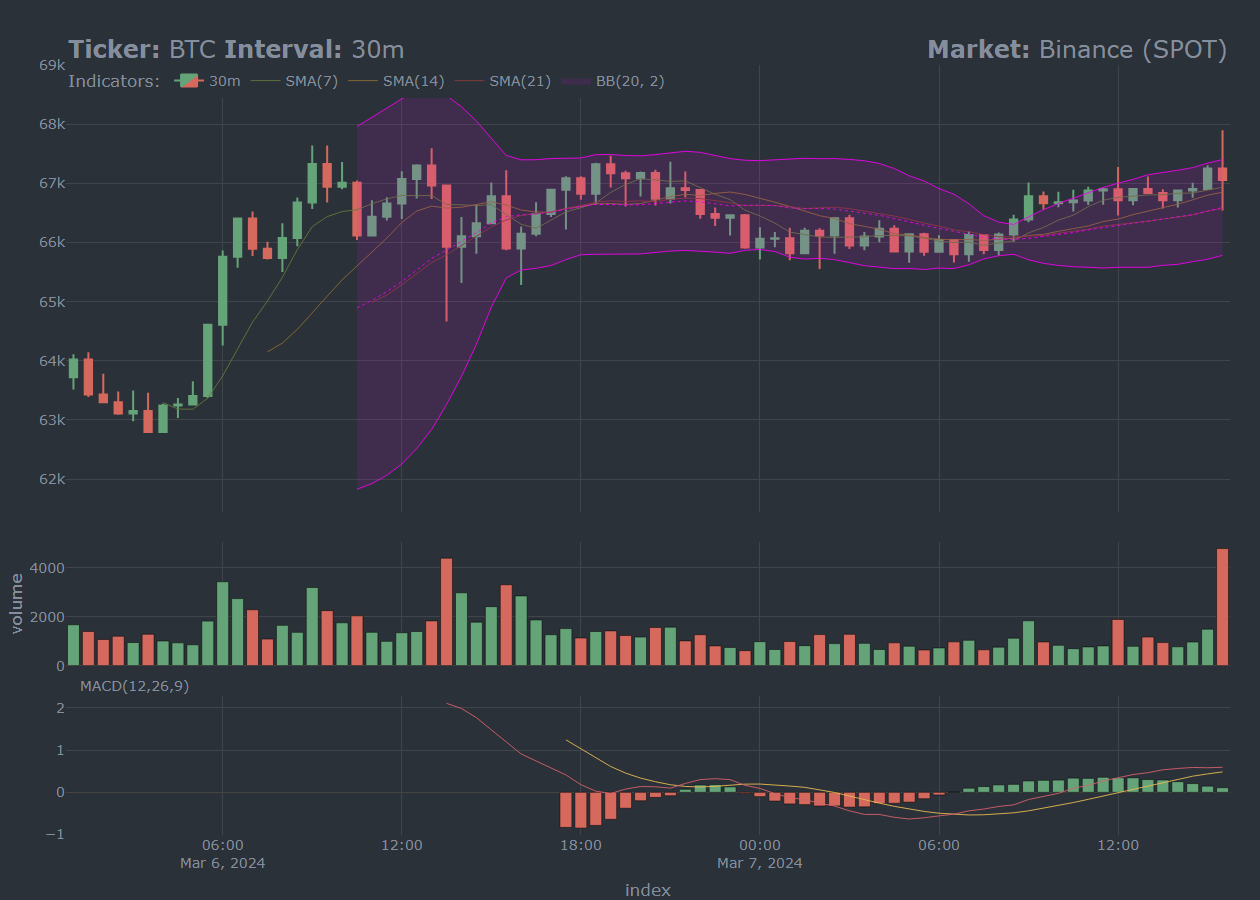
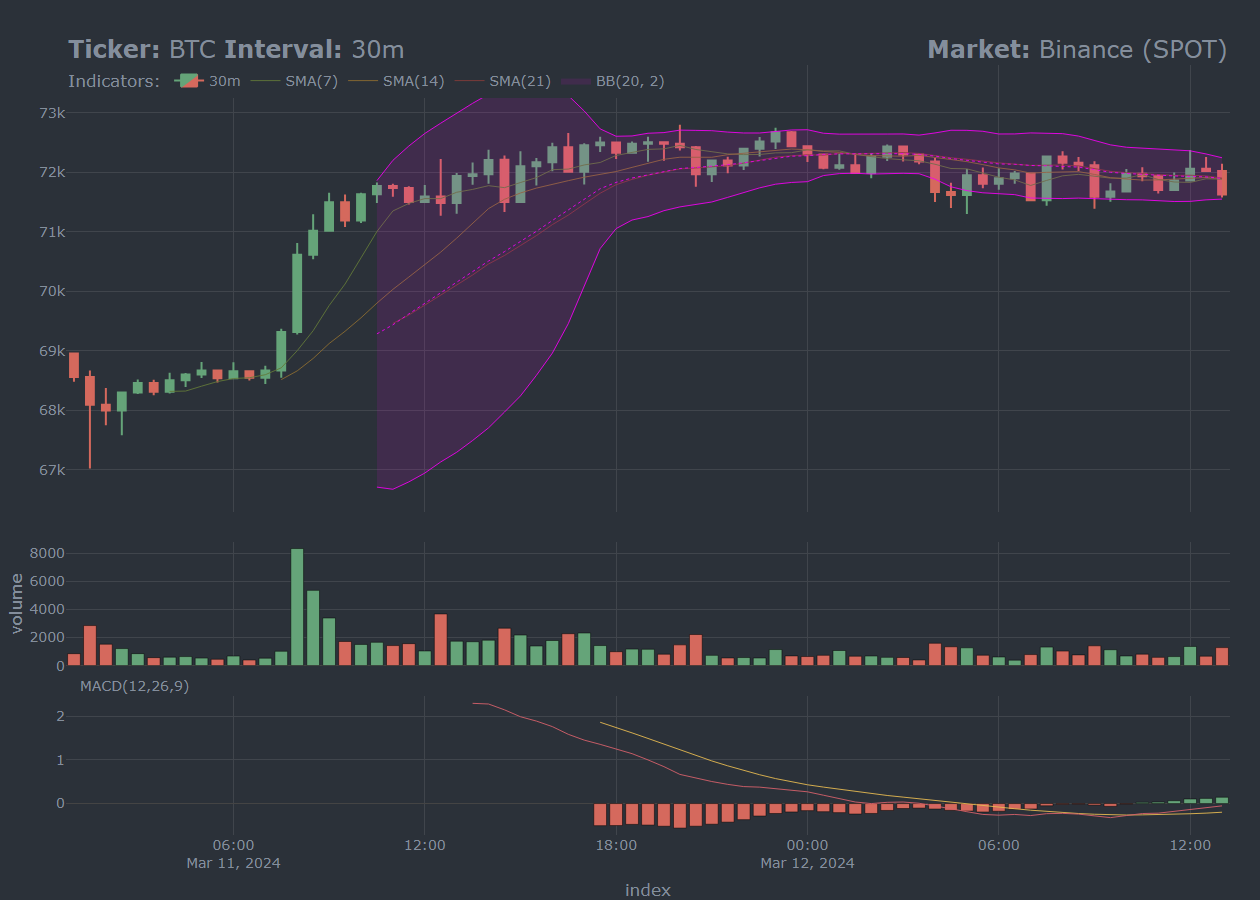
CRAN Submission
The updated package have been submitted to CRAN.

Minor typos in README were fixed before submission!

diff --git a/README.md b/README.md
@@ -32,7 +32,7 @@ exchanges,
 
 <div align="center">
 
-<table style="width:100%; color: black; margin-left: auto; margin-right: auto;" class="table">
+<table style="width:100%; margin-left: auto; margin-right: auto;" class="table">
 <caption>
 Supported exchanges, markets and intervals.
 </caption>
@@ -186,7 +186,7 @@ BTC <- cryptoQuotes::get_quote(
 
 <div align="center">
 
-<table style="width:100%; color: black; margin-left: auto; margin-right: auto;" class="table">
+<table style="width:100%; margin-left: auto; margin-right: auto;" class="table">
 <caption>
 Bitcoin (BTC) OHLC-prices
 </caption>
@@ -215,122 +215,122 @@ volume
 <tbody>
 <tr>
 <td style="text-align:left;">
-2024-03-07 13:00:00
+2024-03-12 10:30:00
 </td>
 <td style="text-align:center;">
-66905.34
+71978.46
 </td>
 <td style="text-align:center;">
-67113.9
+72085.06
 </td>
 <td style="text-align:center;">
-66822
+71850.01
 </td>
 <td style="text-align:center;">
-66836.77
+71936
 </td>
 <td style="text-align:left;">
-1167.04733
+818.1898
 </td>
 </tr>
 <tr>
 <td style="text-align:left;">
-2024-03-07 13:30:00
+2024-03-12 11:00:00
 </td>
 <td style="text-align:center;">
-66836.76
+71936
 </td>
 <td style="text-align:center;">
-66900
+71959.12
 </td>
 <td style="text-align:center;">
-66575.52
+71647.14
 </td>
 <td style="text-align:center;">
-66712.44
+71705.63
 </td>
 <td style="text-align:left;">
-941.182
+587.18566
 </td>
 </tr>
 <tr>
 <td style="text-align:left;">
-2024-03-07 14:00:00
+2024-03-12 11:30:00
 </td>
 <td style="text-align:center;">
-66712.43
+71705.63
 </td>
 <td style="text-align:center;">
-66881.03
+71999
 </td>
 <td style="text-align:center;">
-66592.52
+71705.62
 </td>
 <td style="text-align:center;">
-66881.02
+71864
 </td>
 <td style="text-align:left;">
-768.26032
+642.93822
 </td>
 </tr>
 <tr>
 <td style="text-align:left;">
-2024-03-07 14:30:00
+2024-03-12 12:00:00
 </td>
 <td style="text-align:center;">
-66881.03
+71864
 </td>
 <td style="text-align:center;">
-67010
+72376
 </td>
 <td style="text-align:center;">
-66755.14
+71860
 </td>
 <td style="text-align:center;">
-66905.69
+72062.98
 </td>
 <td style="text-align:left;">
-963.93827
+1368.19948
 </td>
 </tr>
 <tr>
 <td style="text-align:left;">
-2024-03-07 15:00:00
+2024-03-12 12:30:00
 </td>
 <td style="text-align:center;">
-66905.68
+72062.99
 </td>
 <td style="text-align:center;">
-67307.05
+72257.56
 </td>
 <td style="text-align:center;">
-66905.68
+72012.72
 </td>
 <td style="text-align:center;">
-67249.59
+72023.82
 </td>
 <td style="text-align:left;">
-1489.56914
+673.04693
 </td>
 </tr>
 <tr>
 <td style="text-align:left;">
-2024-03-07 15:30:00
+2024-03-12 13:00:00
 </td>
 <td style="text-align:center;">
-67249.59
+72023.82
 </td>
 <td style="text-align:center;">
-67899
+72144.14
 </td>
 <td style="text-align:center;">
-66541.1
+71576
 </td>
 <td style="text-align:center;">
-67055
+71628.53
 </td>
 <td style="text-align:left;">
-4784.76307
+1283.8762
 </td>
 </tr>
 </tbody>
@@ -392,7 +392,7 @@ This `library` is still considered `experimental` but no breaking
 changes will be made on functions labelled as `stable` without
 appropriate action; please refer to the [release notes](NEWS.md), or
 submit an [issue](https://github.com/serkor1/cryptoQuotes/issues) if
-that promise is broken..
+that promise is broken.
 
 ## :information_source: Code of Conduct
 
